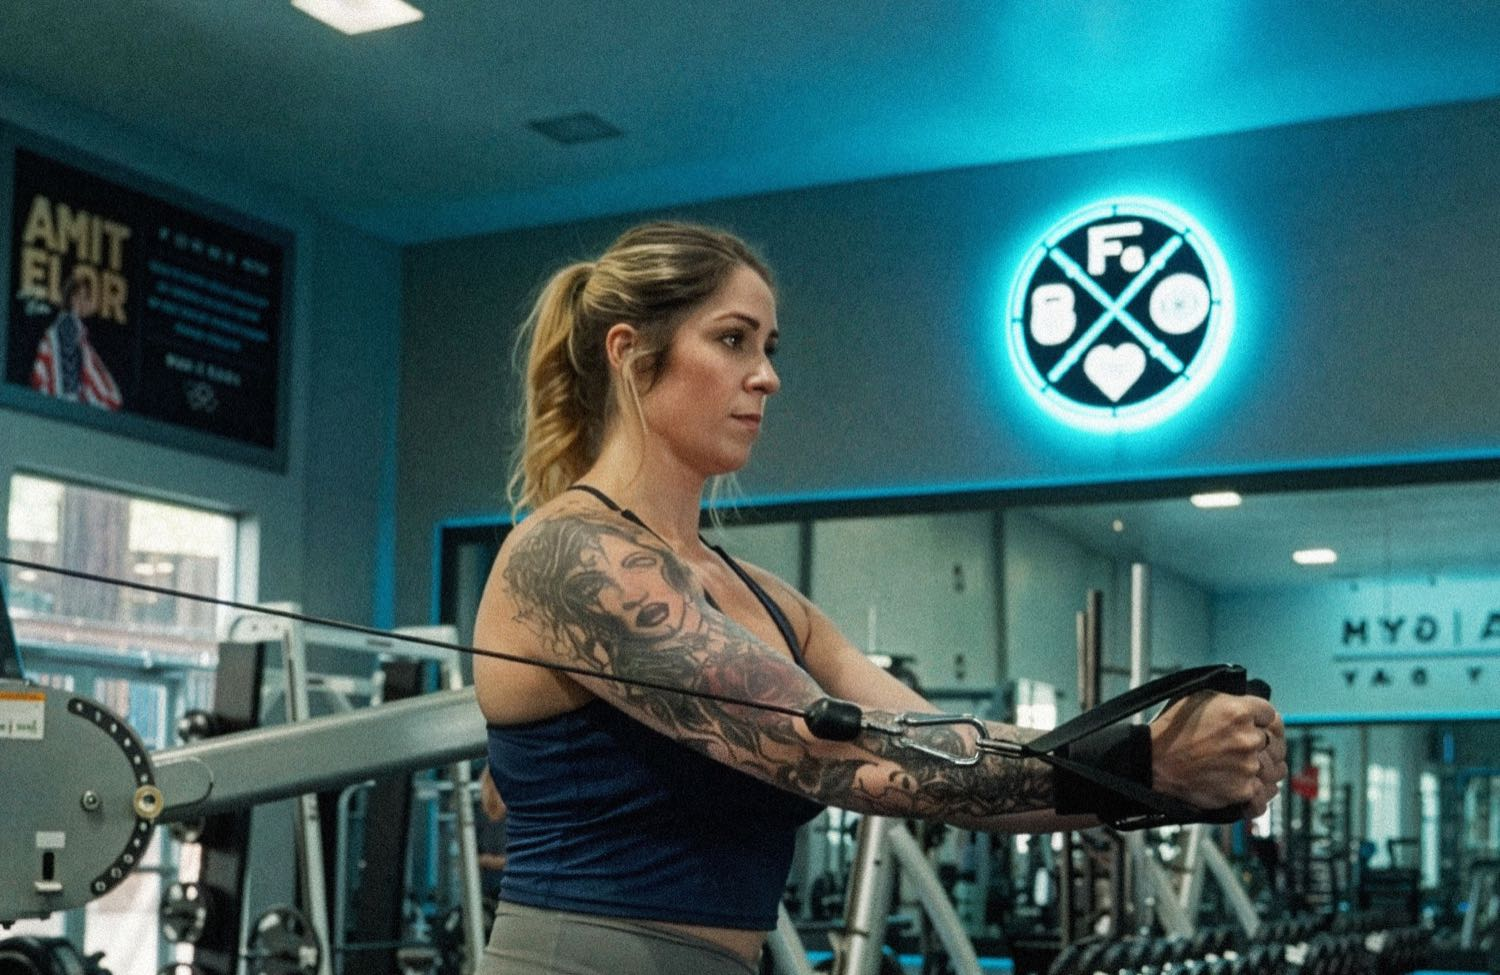
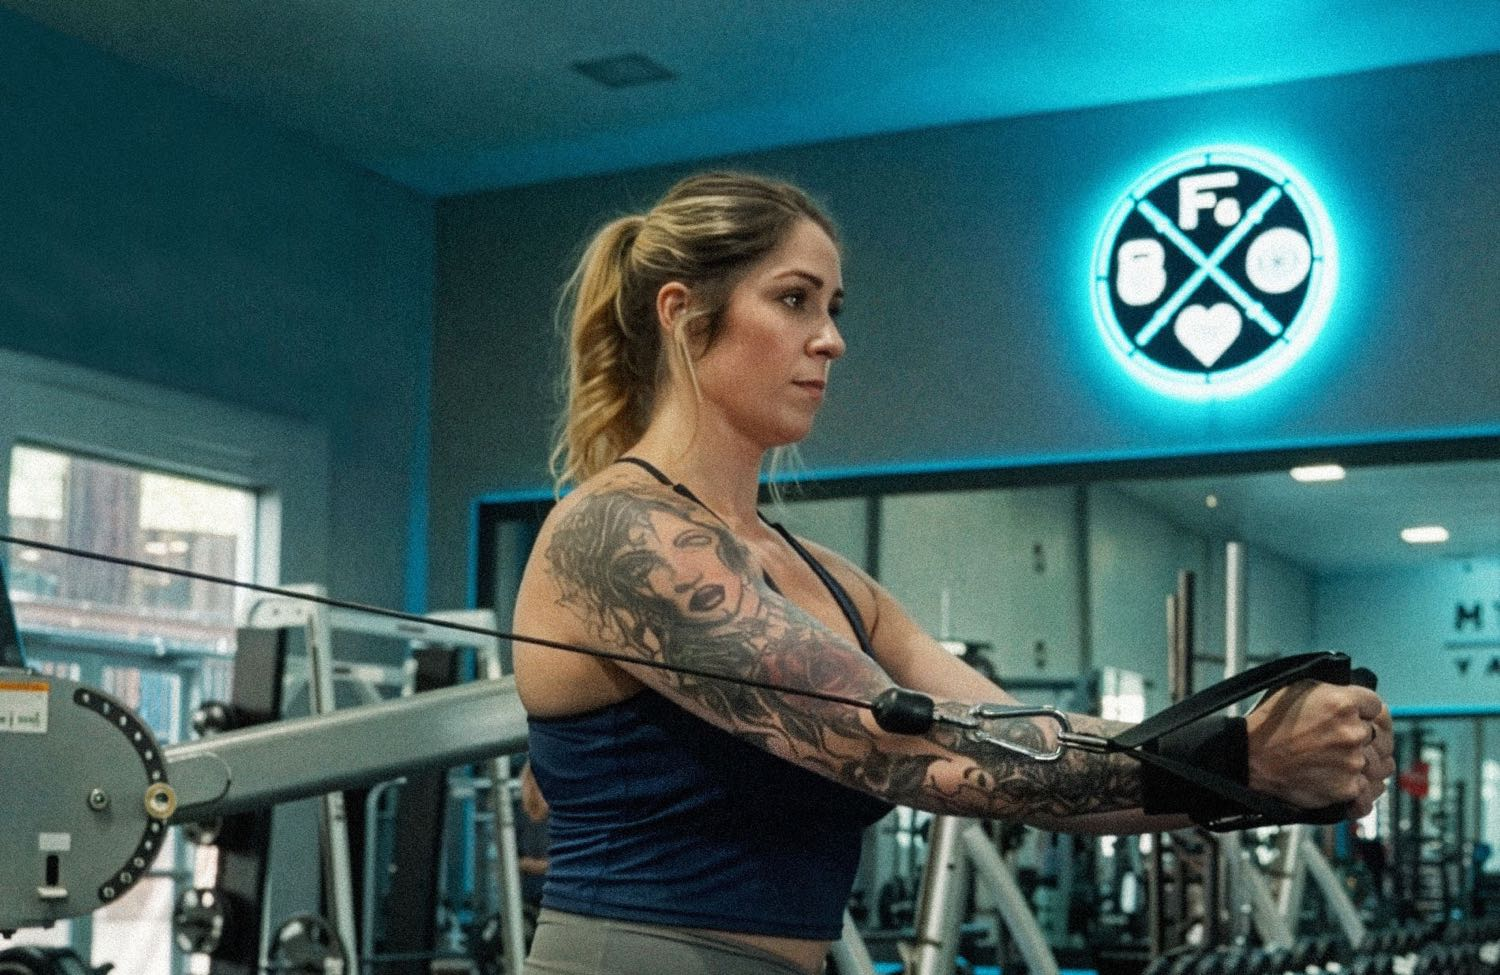
Home hero: v2 poster frames, and a left scrim that belongs to the still only
Both crops regenerated from hero_frame_cable_trainer_v2.jpg, with the wall
poster retouched out so the top-left corner stops competing with the headline.
Same 2059x3680 source, so the crop geometry carried over unchanged.

Desktop crop moved: the window narrows to 1900 and anchors at the left edge,
putting her at 52.7% across instead of 48.7% so her ponytail clears "EST. 2009",
and starts 50px lower in the source so she rides a touch higher — face at 32%
down rather than 36%.

New desktop-only left scrim, 0.70 easing to clear by the right edge. It holds
0.63 out to a third and 0.45 at midpoint, which is what covers the ENDS of the
body-copy lines where they cross her arm and leggings — the brightest part of
the frame. Its own modifier rather than a retune of --scrim-left, which is tuned
for the training hero.

The scrim is for the still, not the footage. It sits on the media container, so
it darkened the video too; main.js now marks the container on the video's first
'playing' event and the scrim drops there. Desktop had no ::before before this
modifier existed, so that restores the original look exactly. Data-saver
visitors keep it, since the poster is their whole hero.

diff --git a/docs/index.html b/docs/index.html
@@ -9,7 +9,7 @@
 <link rel="preconnect" href="https://fonts.gstatic.com" crossorigin>
 <link href="https://fonts.googleapis.com/css2?family=Anton&family=Montserrat:ital,wght@0,300;0,400;0,500;0,600;0,700;1,400&display=swap" rel="stylesheet">
 <link rel="icon" type="image/svg+xml" href="/forma-gym-redesign/assets/img/forma-logo.svg">
-<link rel="stylesheet" href="/forma-gym-redesign/assets/css/main.css?v=1787644300">
+<link rel="stylesheet" href="/forma-gym-redesign/assets/css/main.css?v=1787682824">
 <script>(function(){try{
   if(sessionStorage.getItem("forma-intro"))document.documentElement.classList.add("no-preloader");
   var v=localStorage.getItem("forma-view");
@@ -113,7 +113,7 @@
 </div>
 
 <section class="hero">
-  <div class="hero__media"><video poster="/forma-gym-redesign/assets/img/hero_poster_trainer_mobile.jpg" autoplay muted loop playsinline preload="none" data-poster-desktop="/forma-gym-redesign/assets/img/hero_poster_trainer_desktop.jpg" data-poster-mobile="/forma-gym-redesign/assets/img/hero_poster_trainer_mobile.jpg" data-src-desktop="/forma-gym-redesign/assets/video/SJ_WC_walkthru_combo_desktop_hero_18sec.m4v" data-src-mobile="/forma-gym-redesign/assets/video/WC_SJ_mobile_hero_18sec_edit.m4v"></video></div>
+  <div class="hero__media hero__media--scrim-wide"><video poster="/forma-gym-redesign/assets/img/hero_poster_trainer_mobile.jpg" autoplay muted loop playsinline preload="none" data-poster-desktop="/forma-gym-redesign/assets/img/hero_poster_trainer_desktop.jpg" data-poster-mobile="/forma-gym-redesign/assets/img/hero_poster_trainer_mobile.jpg" data-src-desktop="/forma-gym-redesign/assets/video/SJ_WC_walkthru_combo_desktop_hero_18sec.m4v" data-src-mobile="/forma-gym-redesign/assets/video/WC_SJ_mobile_hero_18sec_edit.m4v"></video></div>
   <div class="hero__inner">
     <p class="hero__kicker">Walnut Creek &amp; San Jose · Est. 2009</p>
     <h1 class="hero__title"><span class="ln"><span style="transition-delay:0.12s">Play</span></span><span class="ln"><span style="transition-delay:0.21s"><span class="serif">every</span> day</span></span></h1>
@@ -309,8 +309,8 @@
     </div>
   </div>
 </footer>
-<script src="/forma-gym-redesign/assets/js/main.js?v=1787644300"></script>
-<script src="/forma-gym-redesign/assets/js/chat-config.js?v=1787644300"></script>
-<script src="/forma-gym-redesign/assets/js/chat.js?v=1787644300" defer></script>
+<script src="/forma-gym-redesign/assets/js/main.js?v=1787682824"></script>
+<script src="/forma-gym-redesign/assets/js/chat-config.js?v=1787682824"></script>
+<script src="/forma-gym-redesign/assets/js/chat.js?v=1787682824" defer></script>
 </body>
 </html>

diff --git a/docs/join-now/index.html b/docs/join-now/index.html
@@ -9,7 +9,7 @@
 <link rel="preconnect" href="https://fonts.gstatic.com" crossorigin>
 <link href="https://fonts.googleapis.com/css2?family=Anton&family=Montserrat:ital,wght@0,300;0,400;0,500;0,600;0,700;1,400&display=swap" rel="stylesheet">
 <link rel="icon" type="image/svg+xml" href="/forma-gym-redesign/assets/img/forma-logo.svg">
-<link rel="stylesheet" href="/forma-gym-redesign/assets/css/main.css?v=1787644300">
+<link rel="stylesheet" href="/forma-gym-redesign/assets/css/main.css?v=1787682824">
 <script>(function(){try{
   if(sessionStorage.getItem("forma-intro"))document.documentElement.classList.add("no-preloader");
   var v=localStorage.getItem("forma-view");
@@ -274,7 +274,7 @@
     </div>
   </div>
 </div>
-<script src="/forma-gym-redesign/assets/js/join.js?v=1787644300" defer></script>
+<script src="/forma-gym-redesign/assets/js/join.js?v=1787682824" defer></script>
 
 <section class="cta-band">
   <div class="cta-band__media"><img src="/forma-gym-redesign/assets/img/sj_gym_floor.jpg" alt="" loading="lazy" srcset="/forma-gym-redesign/assets/img/r/sj_gym_floor-400.jpg 400w, /forma-gym-redesign/assets/img/r/sj_gym_floor-700.jpg 700w, /forma-gym-redesign/assets/img/r/sj_gym_floor-1000.jpg 1000w, /forma-gym-redesign/assets/img/sj_gym_floor.jpg 1600w" sizes="100vw"></div>
@@ -341,8 +341,8 @@
     </div>
   </div>
 </footer>
-<script src="/forma-gym-redesign/assets/js/main.js?v=1787644300"></script>
-<script src="/forma-gym-redesign/assets/js/chat-config.js?v=1787644300"></script>
-<script src="/forma-gym-redesign/assets/js/chat.js?v=1787644300" defer></script>
+<script src="/forma-gym-redesign/assets/js/main.js?v=1787682824"></script>
+<script src="/forma-gym-redesign/assets/js/chat-config.js?v=1787682824"></script>
+<script src="/forma-gym-redesign/assets/js/chat.js?v=1787682824" defer></script>
 </body>
 </html>

diff --git a/docs/assets/css/main.css b/docs/assets/css/main.css
@@ -326,6 +326,24 @@ body.menu-open .menu-list a { opacity: 1; transform: translateY(0); transition: 
       rgba(11,11,12,0.10) 74%,
       rgba(11,11,12,0) 100%);
   }
+  /* Same idea, held darker further across. The home hero's body copy runs to
+     ~47% of the viewport, and the line ends land on her arm and leggings — the
+     brightest part of the frame. Its own modifier rather than a retune of
+     --scrim-left, which is tuned for the training hero. */
+  /* Poster only. Once the video is actually playing this comes off — the
+     footage carries its own contrast and the scrim buried it. Before this
+     modifier existed the desktop hero had no ::before at all, so dropping it
+     restores exactly the old look. */
+  .hero__media--scrim-wide.is-playing::before { content: none; }
+  .hero__media--scrim-wide::before {
+    content: ""; position: absolute; inset: 0; z-index: 1;
+    background: linear-gradient(to right,
+      rgba(11,11,12,0.70) 0%,
+      rgba(11,11,12,0.63) 34%,
+      rgba(11,11,12,0.45) 55%,
+      rgba(11,11,12,0.18) 78%,
+      rgba(11,11,12,0) 100%);
+  }
 }
 /* Every hero on a phone: the copy runs the full width with nowhere quiet to
    sit, so a busy or brightly lit frame swallows it. Flat scrim under the

diff --git a/docs/404.html b/docs/404.html
@@ -9,7 +9,7 @@
 <link rel="preconnect" href="https://fonts.gstatic.com" crossorigin>
 <link href="https://fonts.googleapis.com/css2?family=Anton&family=Montserrat:ital,wght@0,300;0,400;0,500;0,600;0,700;1,400&display=swap" rel="stylesheet">
 <link rel="icon" type="image/svg+xml" href="/forma-gym-redesign/assets/img/forma-logo.svg">
-<link rel="stylesheet" href="/forma-gym-redesign/assets/css/main.css?v=1787644300">
+<link rel="stylesheet" href="/forma-gym-redesign/assets/css/main.css?v=1787682824">
 <script>(function(){try{
   if(sessionStorage.getItem("forma-intro"))document.documentElement.classList.add("no-preloader");
   var v=localStorage.getItem("forma-view");
@@ -154,8 +154,8 @@
     </div>
   </div>
 </footer>
-<script src="/forma-gym-redesign/assets/js/main.js?v=1787644300"></script>
-<script src="/forma-gym-redesign/assets/js/chat-config.js?v=1787644300"></script>
-<script src="/forma-gym-redesign/assets/js/chat.js?v=1787644300" defer></script>
+<script src="/forma-gym-redesign/assets/js/main.js?v=1787682824"></script>
+<script src="/forma-gym-redesign/assets/js/chat-config.js?v=1787682824"></script>
+<script src="/forma-gym-redesign/assets/js/chat.js?v=1787682824" defer></script>
 </body>
 </html>

diff --git a/docs/about/index.html b/docs/about/index.html
@@ -9,7 +9,7 @@
 <link rel="preconnect" href="https://fonts.gstatic.com" crossorigin>
 <link href="https://fonts.googleapis.com/css2?family=Anton&family=Montserrat:ital,wght@0,300;0,400;0,500;0,600;0,700;1,400&display=swap" rel="stylesheet">
 <link rel="icon" type="image/svg+xml" href="/forma-gym-redesign/assets/img/forma-logo.svg">
-<link rel="stylesheet" href="/forma-gym-redesign/assets/css/main.css?v=1787644300">
+<link rel="stylesheet" href="/forma-gym-redesign/assets/css/main.css?v=1787682824">
 <script>(function(){try{
   if(sessionStorage.getItem("forma-intro"))document.documentElement.classList.add("no-preloader");
   var v=localStorage.getItem("forma-view");
@@ -225,8 +225,8 @@
     </div>
   </div>
 </footer>
-<script src="/forma-gym-redesign/assets/js/main.js?v=1787644300"></script>
-<script src="/forma-gym-redesign/assets/js/chat-config.js?v=1787644300"></script>
-<script src="/forma-gym-redesign/assets/js/chat.js?v=1787644300" defer></script>
+<script src="/forma-gym-redesign/assets/js/main.js?v=1787682824"></script>
+<script src="/forma-gym-redesign/assets/js/chat-config.js?v=1787682824"></script>
+<script src="/forma-gym-redesign/assets/js/chat.js?v=1787682824" defer></script>
 </body>
 </html>

diff --git a/docs/accessibility-statement/index.html b/docs/accessibility-statement/index.html
@@ -9,7 +9,7 @@
 <link rel="preconnect" href="https://fonts.gstatic.com" crossorigin>
 <link href="https://fonts.googleapis.com/css2?family=Anton&family=Montserrat:ital,wght@0,300;0,400;0,500;0,600;0,700;1,400&display=swap" rel="stylesheet">
 <link rel="icon" type="image/svg+xml" href="/forma-gym-redesign/assets/img/forma-logo.svg">
-<link rel="stylesheet" href="/forma-gym-redesign/assets/css/main.css?v=1787644300">
+<link rel="stylesheet" href="/forma-gym-redesign/assets/css/main.css?v=1787682824">
 <script>(function(){try{
   if(sessionStorage.getItem("forma-intro"))document.documentElement.classList.add("no-preloader");
   var v=localStorage.getItem("forma-view");
@@ -150,8 +150,8 @@
     </div>
   </div>
 </footer>
-<script src="/forma-gym-redesign/assets/js/main.js?v=1787644300"></script>
-<script src="/forma-gym-redesign/assets/js/chat-config.js?v=1787644300"></script>
-<script src="/forma-gym-redesign/assets/js/chat.js?v=1787644300" defer></script>
+<script src="/forma-gym-redesign/assets/js/main.js?v=1787682824"></script>
+<script src="/forma-gym-redesign/assets/js/chat-config.js?v=1787682824"></script>
+<script src="/forma-gym-redesign/assets/js/chat.js?v=1787682824" defer></script>
 </body>
 </html>

diff --git a/docs/app/index.html b/docs/app/index.html
@@ -9,7 +9,7 @@
 <link rel="preconnect" href="https://fonts.gstatic.com" crossorigin>
 <link href="https://fonts.googleapis.com/css2?family=Anton&family=Montserrat:ital,wght@0,300;0,400;0,500;0,600;0,700;1,400&display=swap" rel="stylesheet">
 <link rel="icon" type="image/svg+xml" href="/forma-gym-redesign/assets/img/forma-logo.svg">
-<link rel="stylesheet" href="/forma-gym-redesign/assets/css/main.css?v=1787644300">
+<link rel="stylesheet" href="/forma-gym-redesign/assets/css/main.css?v=1787682824">
 <script>(function(){try{
   if(sessionStorage.getItem("forma-intro"))document.documentElement.classList.add("no-preloader");
   var v=localStorage.getItem("forma-view");
@@ -175,8 +175,8 @@
     </div>
   </div>
 </footer>
-<script src="/forma-gym-redesign/assets/js/main.js?v=1787644300"></script>
-<script src="/forma-gym-redesign/assets/js/chat-config.js?v=1787644300"></script>
-<script src="/forma-gym-redesign/assets/js/chat.js?v=1787644300" defer></script>
+<script src="/forma-gym-redesign/assets/js/main.js?v=1787682824"></script>
+<script src="/forma-gym-redesign/assets/js/chat-config.js?v=1787682824"></script>
+<script src="/forma-gym-redesign/assets/js/chat.js?v=1787682824" defer></script>
 </body>
 </html>

diff --git a/docs/aqua-gfit/index.html b/docs/aqua-gfit/index.html
@@ -9,7 +9,7 @@
 <link rel="preconnect" href="https://fonts.gstatic.com" crossorigin>
 <link href="https://fonts.googleapis.com/css2?family=Anton&family=Montserrat:ital,wght@0,300;0,400;0,500;0,600;0,700;1,400&display=swap" rel="stylesheet">
 <link rel="icon" type="image/svg+xml" href="/forma-gym-redesign/assets/img/forma-logo.svg">
-<link rel="stylesheet" href="/forma-gym-redesign/assets/css/main.css?v=1787644300">
+<link rel="stylesheet" href="/forma-gym-redesign/assets/css/main.css?v=1787682824">
 <script>(function(){try{
   if(sessionStorage.getItem("forma-intro"))document.documentElement.classList.add("no-preloader");
   var v=localStorage.getItem("forma-view");
@@ -167,8 +167,8 @@
     </div>
   </div>
 </footer>
-<script src="/forma-gym-redesign/assets/js/main.js?v=1787644300"></script>
-<script src="/forma-gym-redesign/assets/js/chat-config.js?v=1787644300"></script>
-<script src="/forma-gym-redesign/assets/js/chat.js?v=1787644300" defer></script>
+<script src="/forma-gym-redesign/assets/js/main.js?v=1787682824"></script>
+<script src="/forma-gym-redesign/assets/js/chat-config.js?v=1787682824"></script>
+<script src="/forma-gym-redesign/assets/js/chat.js?v=1787682824" defer></script>
 </body>
 </html>

diff --git a/docs/barre-gfit/index.html b/docs/barre-gfit/index.html
@@ -9,7 +9,7 @@
 <link rel="preconnect" href="https://fonts.gstatic.com" crossorigin>
 <link href="https://fonts.googleapis.com/css2?family=Anton&family=Montserrat:ital,wght@0,300;0,400;0,500;0,600;0,700;1,400&display=swap" rel="stylesheet">
 <link rel="icon" type="image/svg+xml" href="/forma-gym-redesign/assets/img/forma-logo.svg">
-<link rel="stylesheet" href="/forma-gym-redesign/assets/css/main.css?v=1787644300">
+<link rel="stylesheet" href="/forma-gym-redesign/assets/css/main.css?v=1787682824">
 <script>(function(){try{
   if(sessionStorage.getItem("forma-intro"))document.documentElement.classList.add("no-preloader");
   var v=localStorage.getItem("forma-view");
@@ -167,8 +167,8 @@
     </div>
   </div>
 </footer>
-<script src="/forma-gym-redesign/assets/js/main.js?v=1787644300"></script>
-<script src="/forma-gym-redesign/assets/js/chat-config.js?v=1787644300"></script>
-<script src="/forma-gym-redesign/assets/js/chat.js?v=1787644300" defer></script>
+<script src="/forma-gym-redesign/assets/js/main.js?v=1787682824"></script>
+<script src="/forma-gym-redesign/assets/js/chat-config.js?v=1787682824"></script>
+<script src="/forma-gym-redesign/assets/js/chat.js?v=1787682824" defer></script>
 </body>
 </html>

diff --git a/docs/cardio-hiit/index.html b/docs/cardio-hiit/index.html
@@ -9,7 +9,7 @@
 <link rel="preconnect" href="https://fonts.gstatic.com" crossorigin>
 <link href="https://fonts.googleapis.com/css2?family=Anton&family=Montserrat:ital,wght@0,300;0,400;0,500;0,600;0,700;1,400&display=swap" rel="stylesheet">
 <link rel="icon" type="image/svg+xml" href="/forma-gym-redesign/assets/img/forma-logo.svg">
-<link rel="stylesheet" href="/forma-gym-redesign/assets/css/main.css?v=1787644300">
+<link rel="stylesheet" href="/forma-gym-redesign/assets/css/main.css?v=1787682824">
 <script>(function(){try{
   if(sessionStorage.getItem("forma-intro"))document.documentElement.classList.add("no-preloader");
   var v=localStorage.getItem("forma-view");
@@ -167,8 +167,8 @@
     </div>
   </div>
 </footer>
-<script src="/forma-gym-redesign/assets/js/main.js?v=1787644300"></script>
-<script src="/forma-gym-redesign/assets/js/chat-config.js?v=1787644300"></script>
-<script src="/forma-gym-redesign/assets/js/chat.js?v=1787644300" defer></script>
+<script src="/forma-gym-redesign/assets/js/main.js?v=1787682824"></script>
+<script src="/forma-gym-redesign/assets/js/chat-config.js?v=1787682824"></script>
+<script src="/forma-gym-redesign/assets/js/chat.js?v=1787682824" defer></script>
 </body>
 </html>

diff --git a/docs/contact/index.html b/docs/contact/index.html
@@ -9,7 +9,7 @@
 <link rel="preconnect" href="https://fonts.gstatic.com" crossorigin>
 <link href="https://fonts.googleapis.com/css2?family=Anton&family=Montserrat:ital,wght@0,300;0,400;0,500;0,600;0,700;1,400&display=swap" rel="stylesheet">
 <link rel="icon" type="image/svg+xml" href="/forma-gym-redesign/assets/img/forma-logo.svg">
-<link rel="stylesheet" href="/forma-gym-redesign/assets/css/main.css?v=1787644300">
+<link rel="stylesheet" href="/forma-gym-redesign/assets/css/main.css?v=1787682824">
 <script>(function(){try{
   if(sessionStorage.getItem("forma-intro"))document.documentElement.classList.add("no-preloader");
   var v=localStorage.getItem("forma-view");
@@ -187,8 +187,8 @@
     </div>
   </div>
 </footer>
-<script src="/forma-gym-redesign/assets/js/main.js?v=1787644300"></script>
-<script src="/forma-gym-redesign/assets/js/chat-config.js?v=1787644300"></script>
-<script src="/forma-gym-redesign/assets/js/chat.js?v=1787644300" defer></script>
+<script src="/forma-gym-redesign/assets/js/main.js?v=1787682824"></script>
+<script src="/forma-gym-redesign/assets/js/chat-config.js?v=1787682824"></script>
+<script src="/forma-gym-redesign/assets/js/chat.js?v=1787682824" defer></script>
 </body>
 </html>

diff --git a/docs/cryo/index.html b/docs/cryo/index.html
@@ -9,7 +9,7 @@
 <link rel="preconnect" href="https://fonts.gstatic.com" crossorigin>
 <link href="https://fonts.googleapis.com/css2?family=Anton&family=Montserrat:ital,wght@0,300;0,400;0,500;0,600;0,700;1,400&display=swap" rel="stylesheet">
 <link rel="icon" type="image/svg+xml" href="/forma-gym-redesign/assets/img/forma-logo.svg">
-<link rel="stylesheet" href="/forma-gym-redesign/assets/css/main.css?v=1787644300">
+<link rel="stylesheet" href="/forma-gym-redesign/assets/css/main.css?v=1787682824">
 <script>(function(){try{
   if(sessionStorage.getItem("forma-intro"))document.documentElement.classList.add("no-preloader");
   var v=localStorage.getItem("forma-view");
@@ -220,8 +220,8 @@
     </div>
   </div>
 </footer>
-<script src="/forma-gym-redesign/assets/js/main.js?v=1787644300"></script>
-<script src="/forma-gym-redesign/assets/js/chat-config.js?v=1787644300"></script>
-<script src="/forma-gym-redesign/assets/js/chat.js?v=1787644300" defer></script>
+<script src="/forma-gym-redesign/assets/js/main.js?v=1787682824"></script>
+<script src="/forma-gym-redesign/assets/js/chat-config.js?v=1787682824"></script>
+<script src="/forma-gym-redesign/assets/js/chat.js?v=1787682824" defer></script>
 </body>
 </html>
